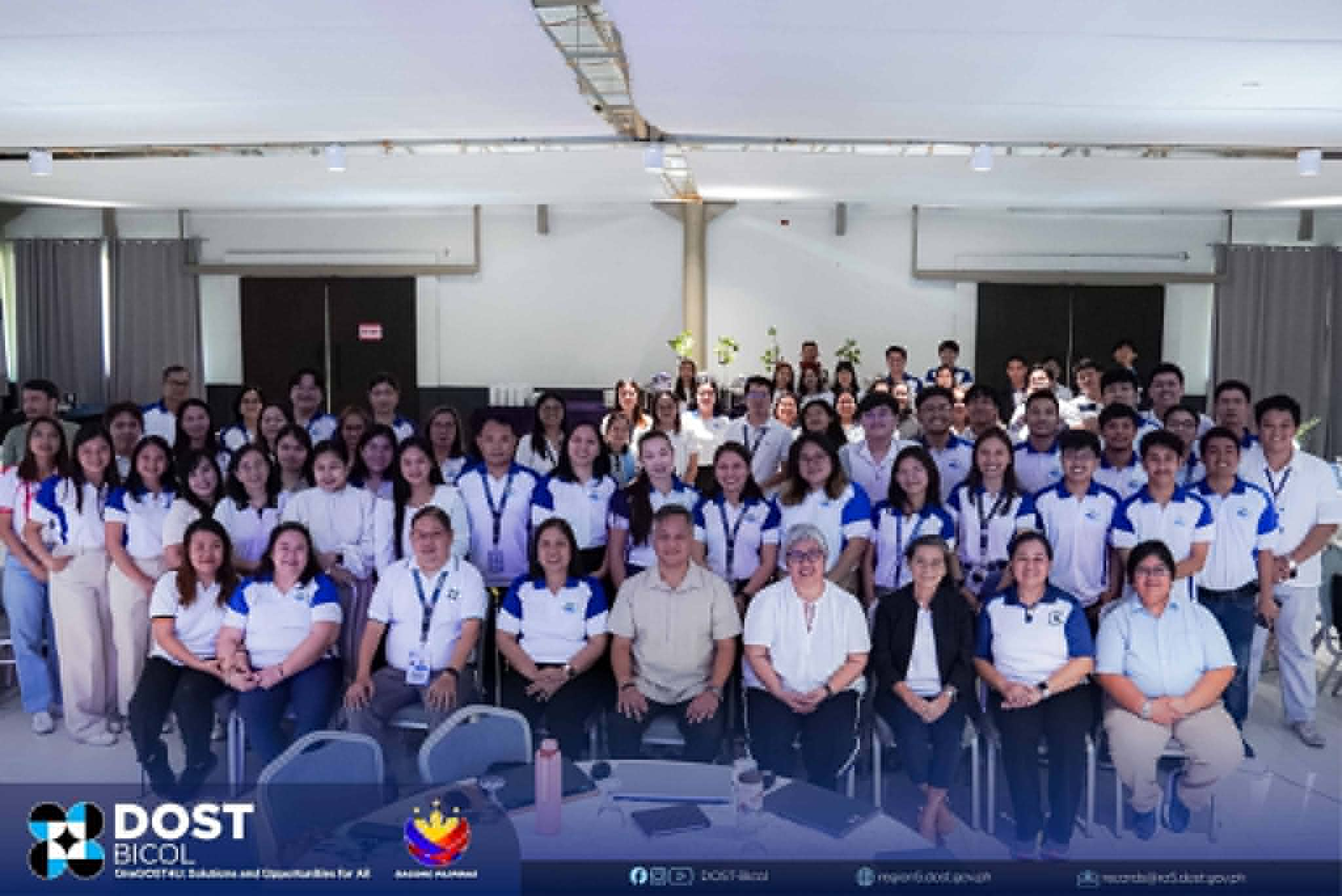
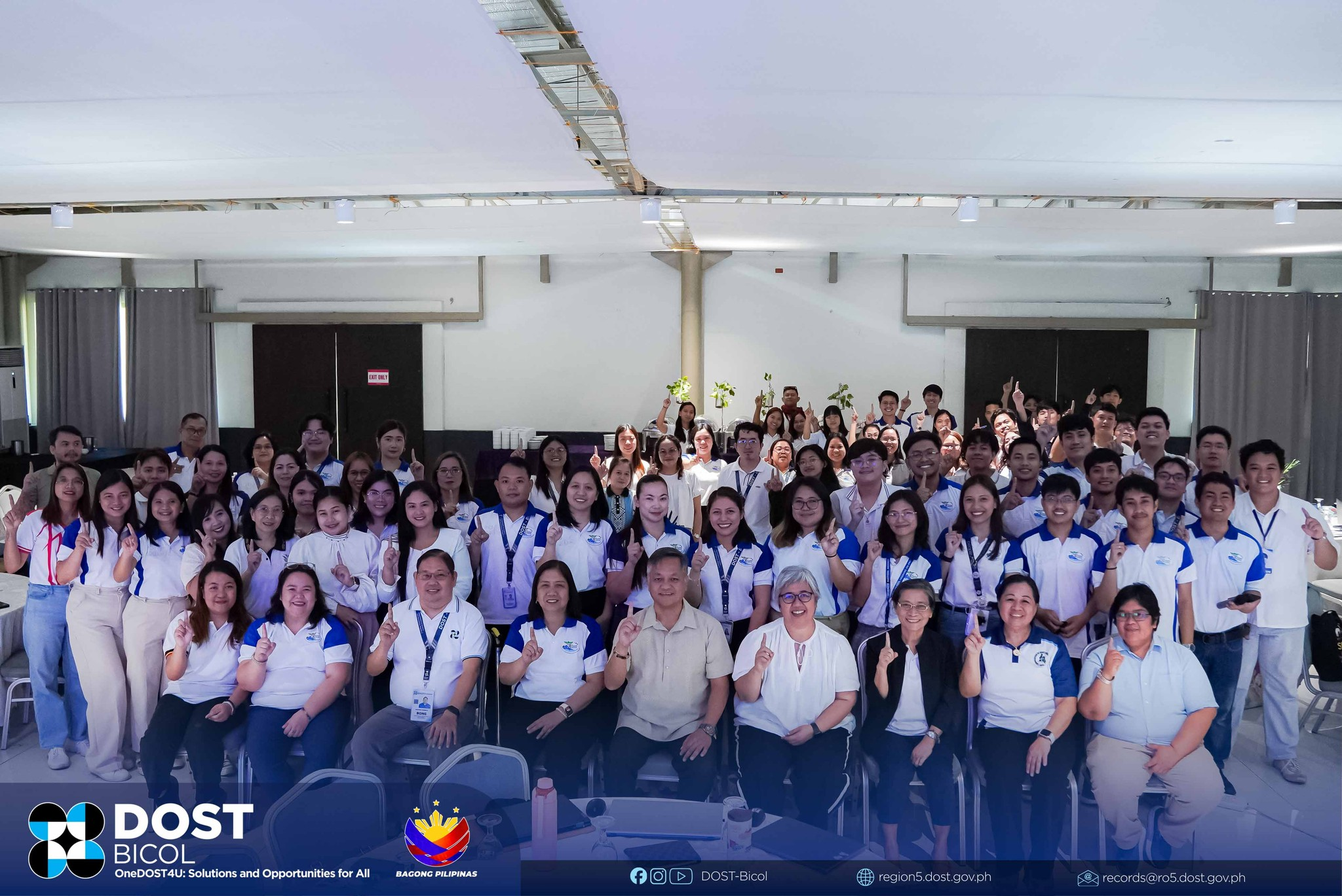
about

diff --git a/index.html b/index.html
@@ -16,9 +16,7 @@
                         darkBg: '#0F172A',
                         darkCard: '#1E293B',
                     },
-                    borderRadius: {
-                        '4xl': '2rem',
-                    }
+                    borderRadius: { '4xl': '2rem' }
                 }
             }
         }
@@ -26,13 +24,8 @@
     <style>
         html { scroll-behavior: smooth; }
         .no-scrollbar::-webkit-scrollbar { display: none; }
-        .img-sharp {
-            image-rendering: -webkit-optimize-contrast;
-            image-rendering: auto;
-        }
+        .img-sharp { image-rendering: -webkit-optimize-contrast; image-rendering: auto; }
         .cursor-zoom-in { cursor: zoom-in; }
-        
-        /* Smooth transition for theme switching */
         body { transition: background-color 0.3s ease, color 0.3s ease; }
     </style>
 </head>
@@ -44,7 +37,6 @@
                 <h1 class="text-xl font-bold text-brandBlue dark:text-blue-400">
                     Personal Blog | <span class="font-light text-slate-500 dark:text-slate-400">DOST V</span>
                 </h1>
-                
                 <button onclick="toggleDarkMode()" class="p-2 rounded-xl bg-slate-100 dark:bg-slate-800 text-slate-600 dark:text-yellow-400 hover:ring-2 ring-brandBlue transition-all">
                     <svg id="sun-icon" class="w-5 h-5 hidden" fill="none" stroke="currentColor" viewBox="0 0 24 24"><path stroke-linecap="round" stroke-linejoin="round" stroke-width="2" d="M12 3v1m0 16v1m9-9h-1M4 9H3m15.364-6.364l-.707.707M6.343 17.657l-.707.707m12.728 0l-.707-.707M6.343 6.343l-.707-.707m12.728 0A9 9 0 115.636 5.636m12.728 12.728L5.636 5.636"></path></svg>
                     <svg id="moon-icon" class="w-5 h-5" fill="none" stroke="currentColor" viewBox="0 0 24 24"><path stroke-linecap="round" stroke-linejoin="round" stroke-width="2" d="M20.354 15.354A9 9 0 018.646 3.646 9.003 9.003 0 0012 21a9.003 9.003 0 008.354-5.646z"></path></svg>
@@ -53,8 +45,7 @@
 
             <div class="hidden md:flex space-x-8 text-sm font-semibold uppercase tracking-wider text-slate-600 dark:text-slate-400">
                 <a href="#" class="text-brandBlue dark:text-blue-400 border-b-2 border-brandBlue pb-1">Dashboard</a>
-                <a href="#" class="hover:text-brandBlue transition">About</a>
-                <a href="#" class="hover:text-brandBlue transition">Docs</a>
+                <a href="about.html" class="hover:text-brandBlue transition">About</a>
             </div>
         </div>
     </nav>
@@ -121,7 +112,6 @@
                     <svg class="w-6 h-6 dark:text-slate-400" fill="none" stroke="currentColor" viewBox="0 0 24 24"><path stroke-linecap="round" stroke-linejoin="round" stroke-width="2" d="M6 18L18 6M6 6l12 12"></path></svg>
                 </button>
             </div>
-            
             <div class="flex-1 overflow-y-auto p-6 md:p-10 no-scrollbar">
                 <div class="grid lg:grid-cols-2 gap-10">
                     <div>
@@ -150,8 +140,7 @@
             <h4 class="text-xl font-bold mb-6">Connect with Me</h4>
             <div class="flex justify-center gap-6 mb-8 text-sm font-medium">
                 <a href="https://www.facebook.com/Mark.Barreda.25" target="_blank" class="bg-white/10 hover:bg-white/20 px-6 py-2 rounded-full transition">Facebook</a>
-                <a href="#" class="bg-white/10 hover:bg-white/20 px-6 py-2 rounded-full transition">Instagram</a>
-                <a href="#" class="bg-white/10 hover:bg-white/20 px-6 py-2 rounded-full transition">GitHub</a>
+                <a href="https://github.com/Mark-games" class="bg-white/10 hover:bg-white/20 px-6 py-2 rounded-full transition">GitHub</a>
             </div>
             <p class="text-xs text-slate-400 tracking-widest uppercase">© 2026 Mark James Barreda • BSIT DOST Region V Intern</p>
         </div>
@@ -230,136 +219,90 @@ Working closely with the staff and helping during the presentations also allowed
             11: { 
                 title: "Week 11: MIS Boys :)", 
                 date: "April 2026", 
-                desc: `This week involved integrating the web dashboard with the mobile application's API. We verified that data saved on the mobile app reflects correctly on the admin side, ensuring full system synchronization.`,
+                desc: `For our eleventh week at DOST, we spent time helping with the disposal of old electronic devices that were no longer being used. We also helped rearrange and organize the area to make the office look cleaner and more organized. This task helped improve the workspace and made it easier to move around and find equipment. Although it was a simple task, it taught us the importance of keeping the workplace neat and organized.
+
+Aside from office work, we also had another presentation with the MIS personnel to discuss the progress of our project. As part of our weekly routine, we shared updates on what we had finished and the features we were currently working on. These presentations helped track our progress and allowed the MIS personnel to give comments and suggestions to improve our system. It also helped us stay focused on our goals and deadlines.
+
+Compared to the previous weeks, this week was more normal and less busy. We continued working on our project while managing small office tasks when needed. Even though there were no major activities, we still learned valuable things through teamwork, communication, and regular progress checking. Overall, this week helped us stay productive and continue moving forward with our project.`,
                 images: ["images/week11/1.jpg", "images/week11/2.jpg", "images/week11/3.jpg", "images/week11/4.jpg", "images/week11/5.jpg", "images/week11/6.jpg", "images/week11/7.jpg", "images/week11/8.jpg", "images/week11/9.jpg", "images/week11/10.jpg", "images/week11/11.jpg"] 
             },
             12: { 
                 title: "Week 12: Fire! Fire! Fire!", 
                 date: "May 2026", 
-                desc: `We began compiling the technical documentation and user manuals for InVta. Clear documentation ensures that the MIS team can maintain and update the system even after our internship ends.`,
+                desc: `For our twelfth week at DOST, the week was a combination of a normal work week and a task-filled week. We continued doing our usual responsibilities, especially working on our project, while also helping with some technical tasks in the office. Since our internship project was almost finished, we focused more on checking and finalizing the remaining parts of the system. We made sure that the features were working properly and fixed some minor issues along the way.
+
+One of the experiences I had this week was being assigned again as part of the technical team during the fire drill. My task was to help with the presentation and make sure the technical equipment was working properly during the activity. This gave me another opportunity to improve my confidence and gain more experience in handling technical responsibilities during important events. It also helped me become more comfortable in assisting programs and presentations.
+
+Aside from that, we also worked on fixing the connection between computers and printers using a wireless setup. We checked the printer settings, connections, and network to make sure that the devices could connect properly. With the guidance of the MIS personnel, we were able to troubleshoot some issues and help the employees use the printers more easily. Overall, this week was a balance of project development and technical work, which helped us continue learning new skills.`,
                 images: ["images/week12/1.jpg", "images/week12/2.jpg", "images/week12/3.jpg", "images/week12/4.jpg", "images/week12/5.jpg", "images/week12/6.jpg", "images/week12/7.jpg", "images/week12/8.jpg", "images/week12/9.jpg"] 
             },
             13: { 
                 title: "Week 13: Last Week as intern", 
                 date: "May 2026", 
-                desc: `The final week was dedicated to the final presentation of our system to the Regional Director and MIS staff. We showcased all features and discussed the technical journey we underwent at DOST V.`,
-                images: ["images/week13/1.jpg", "images/week13/2.jpg", "images/week13/3.jpg", "images/week13/4.jpg", "images/week13/5.jpg", "images/week13/6.jpg", "images/week13/6.jpg"] 
+                desc: `For our thirteenth and final week at DOST, we spent the first three days, from Monday to Wednesday, attending a special event called TukDOST held at the Proxy by The Oriental Albay. During the event, we were assigned as part of the technical team and also helped facilitate some activities. We made sure that the presentations ran smoothly, assisted in setting up equipment, and helped print important documents needed for the event. Although the tasks were sometimes tiring, it was a fun and meaningful experience because we were able to help in a large event and learn more about handling technical responsibilities.
+
+This final week became very memorable for me because it gave us more time to interact with the MIS personnel. While working together during the event, we were able to talk more, share experiences, and enjoy the activities as a team. The busy schedule made us closer, and it felt good to work together after spending many weeks in the internship. It was not only about finishing tasks, but also about creating good memories with the people we worked with.
+
+On Thursday, since it was our last week, we were given the chance to say our messages to the employees of DOST Region V. It was a meaningful moment because we were able to express our gratitude and share our experiences during the internship. We also received our certificate of completion, which made us feel proud and happy for finishing our internship journey. Overall, this final week was emotional, memorable, and a perfect way to end our internship experience.`,
+                images: ["images/week13/1.jpg", "images/week13/2.jpg", "images/week13/3.jpg", "images/week13/4.jpg", "images/week13/5.jpg", "images/week13/6.jpg", "images/week13/7.jpg", "images/week13/8.jpg", "images/week13/9.jpg", "images/week13/10.jpg", "images/week13/11.jpg", "images/week13/12.jpg"] 
             }
         };
 
-        // NEW LOGIC: TRACK EXPANSION STATE
         let isExpanded = false;
-
-        // Initialize Cards
         const container = document.getElementById('cards-container');
-        
+
         function renderCards() {
             container.innerHTML = '';
             for (let i = 1; i <= 13; i++) {
-                // Add "hidden" and "extra-card" classes to cards after the 4th one
                 const isExtraClass = i > 4 ? 'hidden extra-card' : '';
                 const displayNum = i < 10 ? `0${i}` : i;
-
                 container.innerHTML += `
                     <div onclick="openModal(${i})" class="${isExtraClass} group bg-white dark:bg-darkCard p-8 rounded-4xl shadow-sm border border-slate-100 dark:border-slate-800 hover:shadow-xl hover:border-brandBlue/20 transition-all duration-500 cursor-pointer relative overflow-hidden">
                         <div class="absolute top-0 right-0 p-4 opacity-10 group-hover:opacity-25 transition-opacity duration-500">
                             <span class="text-6xl font-black italic text-brandBlue dark:text-blue-500">${displayNum}</span>
                         </div>
-                        <div class="w-12 h-12 bg-blue-50 dark:bg-blue-900/30 text-brandBlue dark:text-blue-400 rounded-2xl flex items-center justify-center font-bold mb-6 group-hover:bg-brandBlue group-hover:text-white transition">
-                            W${i}
-                        </div>
+                        <div class="w-12 h-12 bg-blue-50 dark:bg-blue-900/30 text-brandBlue dark:text-blue-400 rounded-2xl flex items-center justify-center font-bold mb-6 group-hover:bg-brandBlue group-hover:text-white transition">W${i}</div>
                         <h4 class="text-xl font-bold text-slate-800 dark:text-slate-100 mb-2">Week ${i}</h4>
                         <p class="text-sm text-slate-500 dark:text-slate-400 mb-4 line-clamp-2">${reports[i].title}</p>
-                        <span class="text-accentOrange font-bold text-xs uppercase tracking-widest flex items-center gap-2">
-                            View Report <span class="group-hover:translate-x-1 transition">→</span>
-                        </span>
-                    </div>
-                `;
+                        <span class="text-accentOrange font-bold text-xs uppercase tracking-widest flex items-center gap-2">View Report →</span>
+                    </div>`;
             }
         }
 
-        // TOGGLE FUNCTION
         function toggleAllCards() {
             const extraCards = document.querySelectorAll('.extra-card');
             const btn = document.getElementById('see-all-btn');
             isExpanded = !isExpanded;
-
-            extraCards.forEach(card => {
-                if (isExpanded) {
-                    card.classList.remove('hidden');
-                    card.classList.add('animate-in', 'fade-in', 'slide-in-from-bottom-4', 'duration-500');
-                } else {
-                    card.classList.add('hidden');
-                }
-            });
-
+            extraCards.forEach(card => card.classList.toggle('hidden', !isExpanded));
             btn.innerText = isExpanded ? 'Show Less' : 'See All Reports';
         }
 
-        renderCards();
-
-        // Dark Mode Logic
-        function toggleDarkMode() {
-            const html = document.documentElement;
-            const sunIcon = document.getElementById('sun-icon');
-            const moonIcon = document.getElementById('moon-icon');
-            
-            html.classList.toggle('dark');
-            
-            if (html.classList.contains('dark')) {
-                sunIcon.classList.remove('hidden');
-                moonIcon.classList.add('hidden');
-                localStorage.setItem('theme', 'dark');
-            } else {
-                sunIcon.classList.add('hidden');
-                moonIcon.classList.remove('hidden');
-                localStorage.setItem('theme', 'light');
-            }
-        }
-
-        // Load saved theme
-        if (localStorage.getItem('theme') === 'dark' || (!('theme' in localStorage) && window.matchMedia('(prefers-color-scheme: dark)').matches)) {
-            document.documentElement.classList.add('dark');
-            document.getElementById('sun-icon').classList.remove('hidden');
-            document.getElementById('moon-icon').classList.add('hidden');
-        }
-
-        // Modal Functions
         function openModal(week) {
             const data = reports[week];
             document.getElementById('modal-title').innerText = data.title;
             document.getElementById('modal-date').innerText = data.date;
             document.getElementById('modal-desc').innerText = data.desc;
-            const gallery = document.getElementById('modal-gallery');
-            gallery.innerHTML = ''; 
-
-            data.images.forEach(src => {
-                gallery.innerHTML += `
-                    <div class="aspect-video bg-slate-100 dark:bg-slate-800 rounded-2xl overflow-hidden border border-slate-200 dark:border-slate-700">
-                        <img src="${src}" onclick="zoomImage('${src}')" 
-                             class="w-full h-full object-cover cursor-zoom-in hover:scale-105 transition duration-300">
-                    </div>`;
-            });
-
+            document.getElementById('modal-gallery').innerHTML = data.images.map(src => `
+                <div class="aspect-video bg-slate-100 dark:bg-slate-800 rounded-2xl overflow-hidden">
+                    <img src="${src}" onclick="zoomImage('${src}')" class="w-full h-full object-cover cursor-zoom-in hover:scale-105 transition duration-300">
+                </div>`).join('');
             document.getElementById('doc-modal').classList.remove('hidden');
             document.body.style.overflow = 'hidden';
         }
 
-        function closeModal() {
-            document.getElementById('doc-modal').classList.add('hidden');
-            document.body.style.overflow = 'auto';
+        function closeModal() { document.getElementById('doc-modal').classList.add('hidden'); document.body.style.overflow = 'auto'; }
+        function zoomImage(src) { document.getElementById('zoomed-img').src = src; document.getElementById('zoom-overlay').classList.remove('hidden'); }
+        function closeZoom() { document.getElementById('zoom-overlay').classList.add('hidden'); }
+        function toggleDarkMode() {
+            document.documentElement.classList.toggle('dark');
+            const isDark = document.documentElement.classList.contains('dark');
+            document.getElementById('sun-icon').classList.toggle('hidden', !isDark);
+            document.getElementById('moon-icon').classList.toggle('hidden', isDark);
+            localStorage.setItem('theme', isDark ? 'dark' : 'light');
         }
 
-        function zoomImage(src) {
-            const overlay = document.getElementById('zoom-overlay');
-            const img = document.getElementById('zoomed-img');
-            img.src = src;
-            overlay.classList.remove('hidden');
-        }
-
-        function closeZoom() {
-            document.getElementById('zoom-overlay').classList.add('hidden');
-        }
+        renderCards();
+        if (localStorage.getItem('theme') === 'dark') toggleDarkMode();
     </script>
 </body>
 </html>

diff --git a/about.html b/about.html
@@ -1,0 +1,162 @@
+<!DOCTYPE html>
+<html lang="en">
+<head>
+    <meta charset="UTF-8">
+    <meta name="viewport" content="width=device-width, initial-scale=1.0">
+    <title>About | Mark James Barreda</title>
+    <script src="https://cdn.tailwindcss.com"></script>
+    <script>
+        tailwind.config = {
+            darkMode: 'class',
+            theme: {
+                extend: {
+                    colors: {
+                        brandBlue: '#2D4A5E',
+                        accentOrange: '#F97316',
+                        darkBg: '#0F172A',
+                        darkCard: '#1E293B',
+                    },
+                    borderRadius: { '4xl': '2rem' }
+                }
+            }
+        }
+    </script>
+    <style>
+        .glass {
+            background: rgba(255, 255, 255, 0.03);
+            backdrop-filter: blur(10px);
+            border: 1px solid rgba(255, 255, 255, 0.05);
+        }
+        .gradient-text {
+            background: linear-gradient(to right, #60A5FA, #F97316);
+            -webkit-background-clip: text;
+            -webkit-text-fill-color: transparent;
+        }
+        
+        /* THE EXACT FIX FROM INDEX.HTML */
+        .img-sharp {
+            image-rendering: -webkit-optimize-contrast; /* For Safari */
+            image-rendering: pixelated; /* Forces sharpness on low-res images */
+            -ms-interpolation-mode: nearest-neighbor; /* For IE */
+        }
+
+        body { transition: background-color 0.3s ease; }
+    </style>
+</head>
+<body class="bg-slate-50 text-slate-900 dark:bg-darkBg dark:text-slate-100 antialiased font-sans">
+
+    <nav class="fixed top-0 w-full z-50 bg-white/80 dark:bg-darkBg/80 backdrop-blur-md border-b dark:border-slate-800">
+        <div class="max-w-7xl mx-auto px-6 h-16 flex justify-between items-center">
+            <a href="index.html" class="flex items-center gap-2 font-bold text-brandBlue dark:text-blue-400">
+                <span>&larr;</span> Back to Dashboard
+            </a>
+            <button onclick="document.documentElement.classList.toggle('dark')" class="p-2 rounded-lg bg-slate-100 dark:bg-slate-800">
+                🌓
+            </button>
+        </div>
+    </nav>
+
+    <main class="pt-24 pb-20 px-6">
+        <div class="max-w-5xl mx-auto">
+            <header class="text-center mb-16">
+                <div class="relative inline-block p-1 rounded-full bg-gradient-to-tr from-blue-500 to-orange-500 shadow-2xl">
+                    <div class="w-32 h-32 md:w-36 md:h-36 rounded-full overflow-hidden border-4 border-white dark:border-darkBg relative bg-slate-200">
+                        <img src="images/me.jpg" alt="Profile" class="img-sharp w-full h-full object-cover">
+                    </div>
+                </div>
+                <h1 class="text-5xl font-black mb-4 mt-6">Mark James <span class="gradient-text">Barreda</span></h1>
+                <p class="text-xl text-slate-600 dark:text-slate-400 max-w-2xl mx-auto">
+                    Aspiring IT Professional & Full-Stack Developer currently making waves as a BSIT Intern at DOST Region V.
+                </p>
+            </header>
+
+            <div class="grid md:grid-cols-3 gap-8">
+                <div class="md:col-span-2 space-y-8">
+                    <section class="bg-white dark:bg-darkCard p-8 rounded-4xl shadow-sm border dark:border-slate-800">
+                        <h2 class="text-2xl font-bold mb-4 flex items-center gap-3">
+                            <span class="w-8 h-8 bg-blue-100 dark:bg-blue-900/40 text-blue-600 flex items-center justify-center rounded-lg text-sm">👤</span>
+                            Personal Profile
+                        </h2>
+                        <p class="text-slate-600 dark:text-slate-400 leading-relaxed italic">
+                            "Passionate about bridging the gap between complex backend logic and intuitive frontend design. My journey at DOST has sharpened my technical troubleshooting skills and my ability to build robust systems like InVta."
+                        </p>
+                        <div class="grid grid-cols-2 gap-4 mt-6">
+                            <div class="p-4 bg-slate-50 dark:bg-slate-800/50 rounded-2xl">
+                                <p class="text-xs text-slate-500 uppercase font-bold">Education</p>
+                                <p class="font-semibold">BS Information Technology</p>
+                            </div>
+                            <div class="p-4 bg-slate-50 dark:bg-slate-800/50 rounded-2xl">
+                                <p class="text-xs text-slate-500 uppercase font-bold">Location</p>
+                                <p class="font-semibold">Bicol, Philippines</p>
+                            </div>
+                        </div>
+                    </section>
+
+                    <section class="bg-white dark:bg-darkCard p-8 rounded-4xl shadow-sm border dark:border-slate-800">
+                        <h2 class="text-2xl font-bold mb-6">Technical Arsenal</h2>
+                        <div class="space-y-4">
+                            <div>
+                                <div class="flex justify-between mb-1 text-sm font-bold">
+                                    <span>Frontend (Tailwind/Figma)</span>
+                                    <span>90%</span>
+                                </div>
+                                <div class="w-full bg-slate-100 dark:bg-slate-800 rounded-full h-2">
+                                    <div class="bg-brandBlue h-2 rounded-full" style="width: 90%"></div>
+                                </div>
+                            </div>
+                            <div>
+                                <div class="flex justify-between mb-1 text-sm font-bold">
+                                    <span>Backend (Laravel/PHP)</span>
+                                    <span>85%</span>
+                                </div>
+                                <div class="w-full bg-slate-100 dark:bg-slate-800 rounded-full h-2">
+                                    <div class="bg-accentOrange h-2 rounded-full" style="width: 85%"></div>
+                                </div>
+                            </div>
+                            <div>
+                                <div class="flex justify-between mb-1 text-sm font-bold">
+                                    <span>Mobile Dev (Android Studio)</span>
+                                    <span>75%</span>
+                                </div>
+                                <div class="w-full bg-slate-100 dark:bg-slate-800 rounded-full h-2">
+                                    <div class="bg-blue-500 h-2 rounded-full" style="width: 75%"></div>
+                                </div>
+                            </div>
+                        </div>
+                    </section>
+                </div>
+
+                <div class="space-y-8">
+                    <div class="bg-brandBlue text-white p-8 rounded-4xl shadow-xl relative overflow-hidden group">
+                        <div class="relative z-10">
+                            <p class="text-blue-200 text-sm font-bold uppercase tracking-widest mb-2">Internship Status</p>
+                            <h3 class="text-3xl font-black mb-4">Week 13 Completed</h3>
+                            <p class="text-blue-100 text-sm">Successfully deployed the InVta Event Management System at DOST V.</p>
+                        </div>
+                        <div class="absolute -bottom-4 -right-4 text-white/10 text-8xl font-black group-hover:scale-110 transition-transform">13</div>
+                    </div>
+
+                    <div class="bg-white dark:bg-darkCard p-8 rounded-4xl border dark:border-slate-800 shadow-sm">
+                        <h4 class="font-bold mb-4">Toolbox</h4>
+                        <div class="flex flex-wrap gap-2">
+                            <span class="px-3 py-1 bg-slate-100 dark:bg-slate-800 rounded-lg text-xs font-bold">VS Code</span>
+                            <span class="px-3 py-1 bg-slate-100 dark:bg-slate-800 rounded-lg text-xs font-bold">GitHub</span>
+                            <span class="px-3 py-1 bg-slate-100 dark:bg-slate-800 rounded-lg text-xs font-bold">Laravel</span>
+                            <span class="px-3 py-1 bg-slate-100 dark:bg-slate-800 rounded-lg text-xs font-bold">Figma</span>
+                            <span class="px-3 py-1 bg-slate-100 dark:bg-slate-800 rounded-lg text-xs font-bold">Android Studio</span>
+                        </div>
+                    </div>
+                </div>
+            </div>
+        </div>
+    </main>
+
+    <footer class="text-center py-10 text-slate-400 text-sm border-t dark:border-slate-800">
+        &copy; 2026 Mark James Barreda. Built with Tailwind & Passion.
+    </footer>
+
+    <script>
+        if (localStorage.getItem('theme') === 'dark') document.documentElement.classList.add('dark');
+    </script>
+</body>
+</html>
